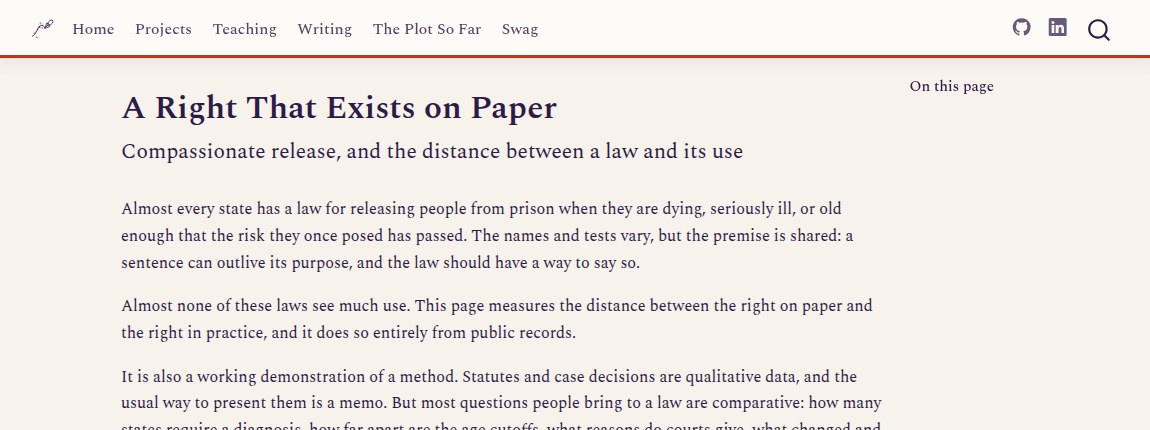
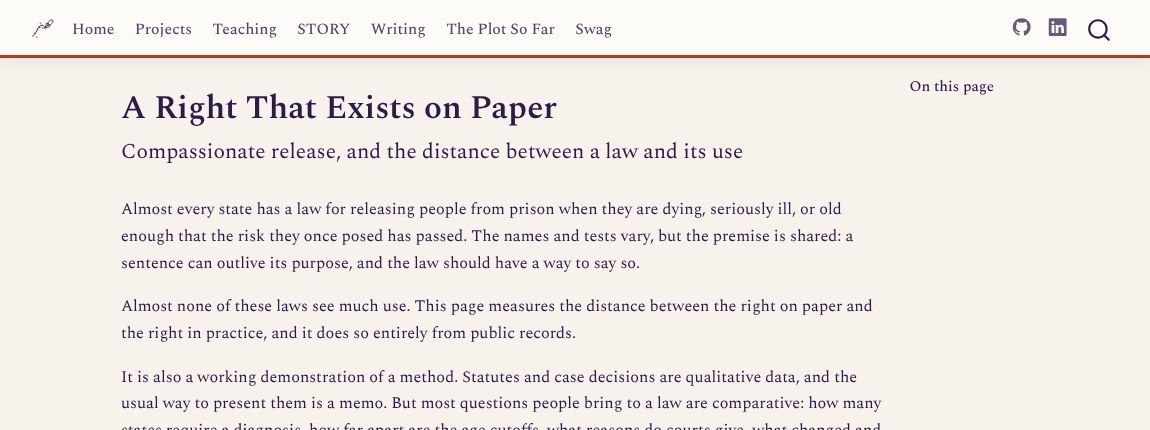
Retake the two data-story thumbnails with the STORY navbar
Both are page-top screenshots, and they predated the STORY navbar entry.
Retaken from the published pages with the same 1150x430 framing.

Claude-Session: https://claude.ai/code/session_0191t4cG3m6aQycW3EiNAUvs

diff --git a/CLAUDE.md b/CLAUDE.md
@@ -1282,7 +1282,12 @@ that the whole group is imaginary.
   must deploy first). Since the 2026-07-21 declutter that is just
   `thumb-periodic.jpg` and `thumb-maturitygap.jpg`, plus the six Teaching card
   thumbnails since 2026-09-29 (barnum, howold, gut, evalpicker, datastory, and
-  periodic again). Headless Chromium in CCR only loads Spectral and JetBrains
+  periodic again). The STORY navbar entry (2026-10-20) was such a chrome
+  change: `thumb-maturitygap.jpg` and `thumb-compassionaterelease.jpg` are
+  page-top screenshots that showed the navbar without STORY, so both were
+  retaken 2026-10-21 from the published `gh-pages` pages (1150x430 viewport
+  at the top of the page, JPEG q88). Adding or renaming a navbar entry
+  re-stales them. Headless Chromium in CCR only loads Spectral and JetBrains
   Mono when launched with `proxy: { server: process.env.HTTPS_PROXY }`;
   without it the fonts silently fall back and the thumbnail is wrong.
   The homepage "Start Here" grid (headed "Featured Projects" until the July
